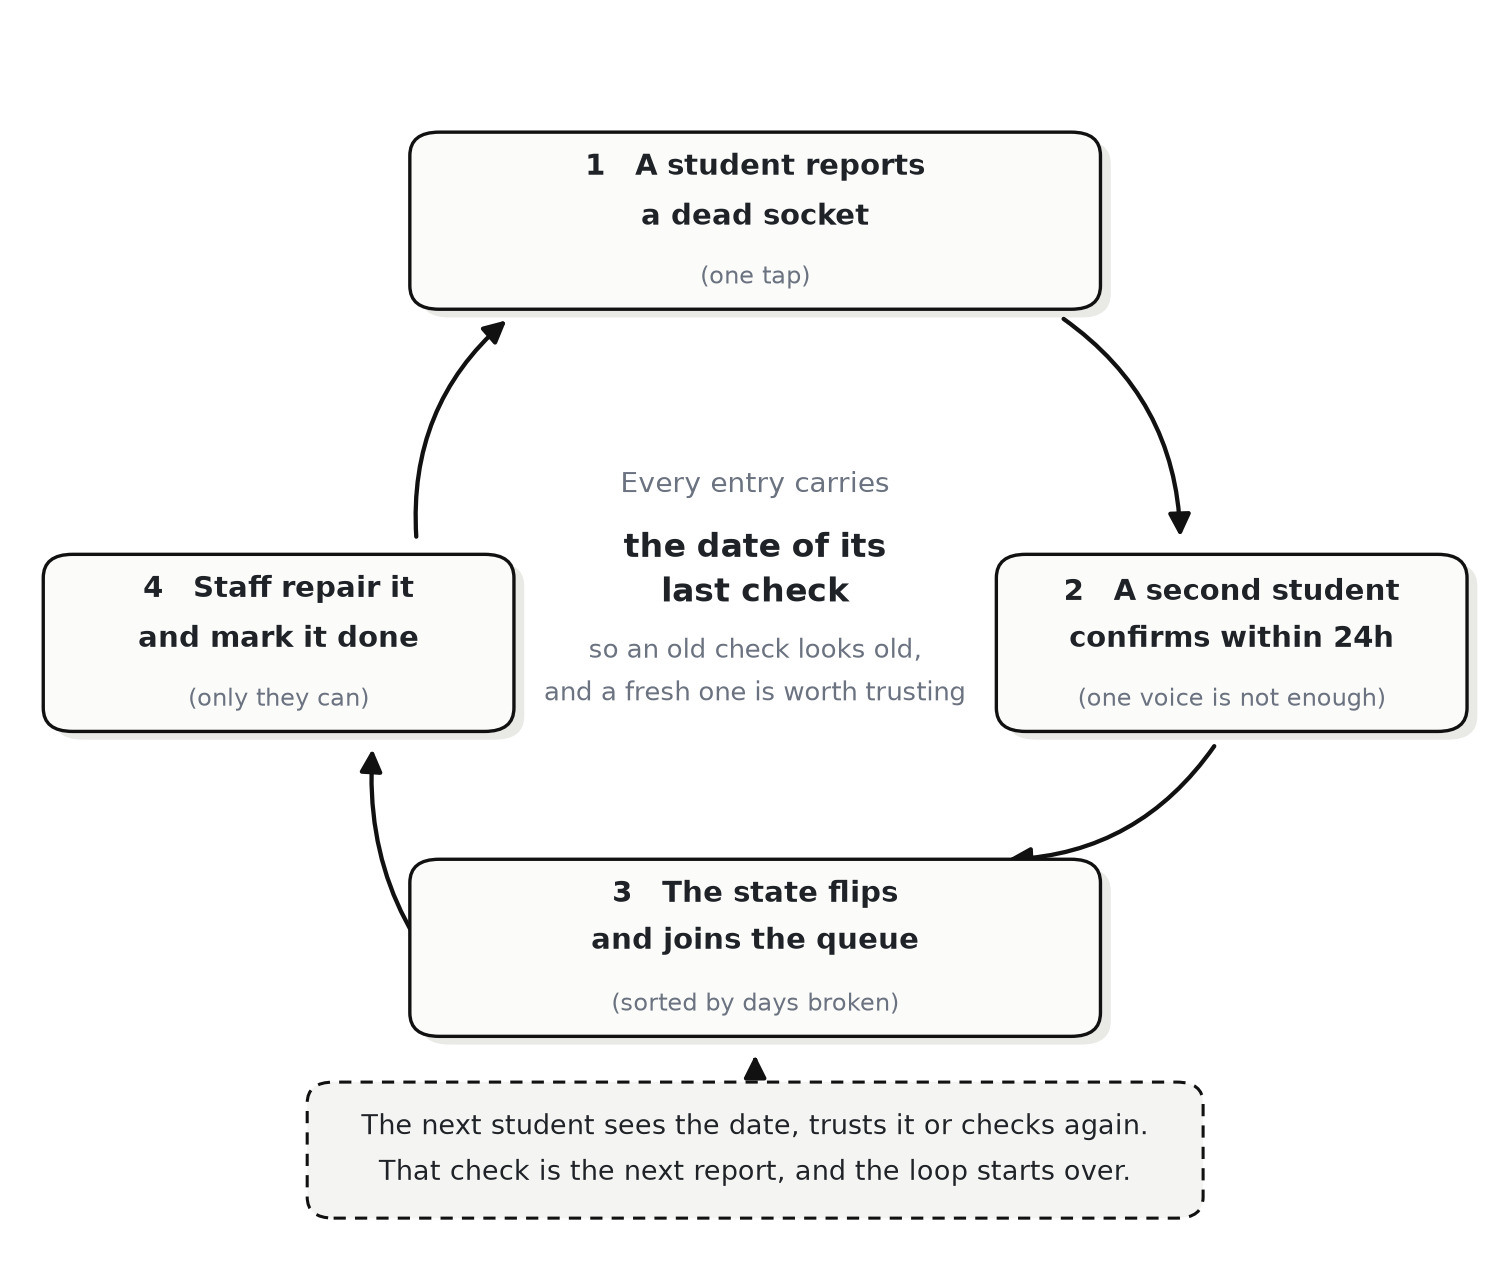
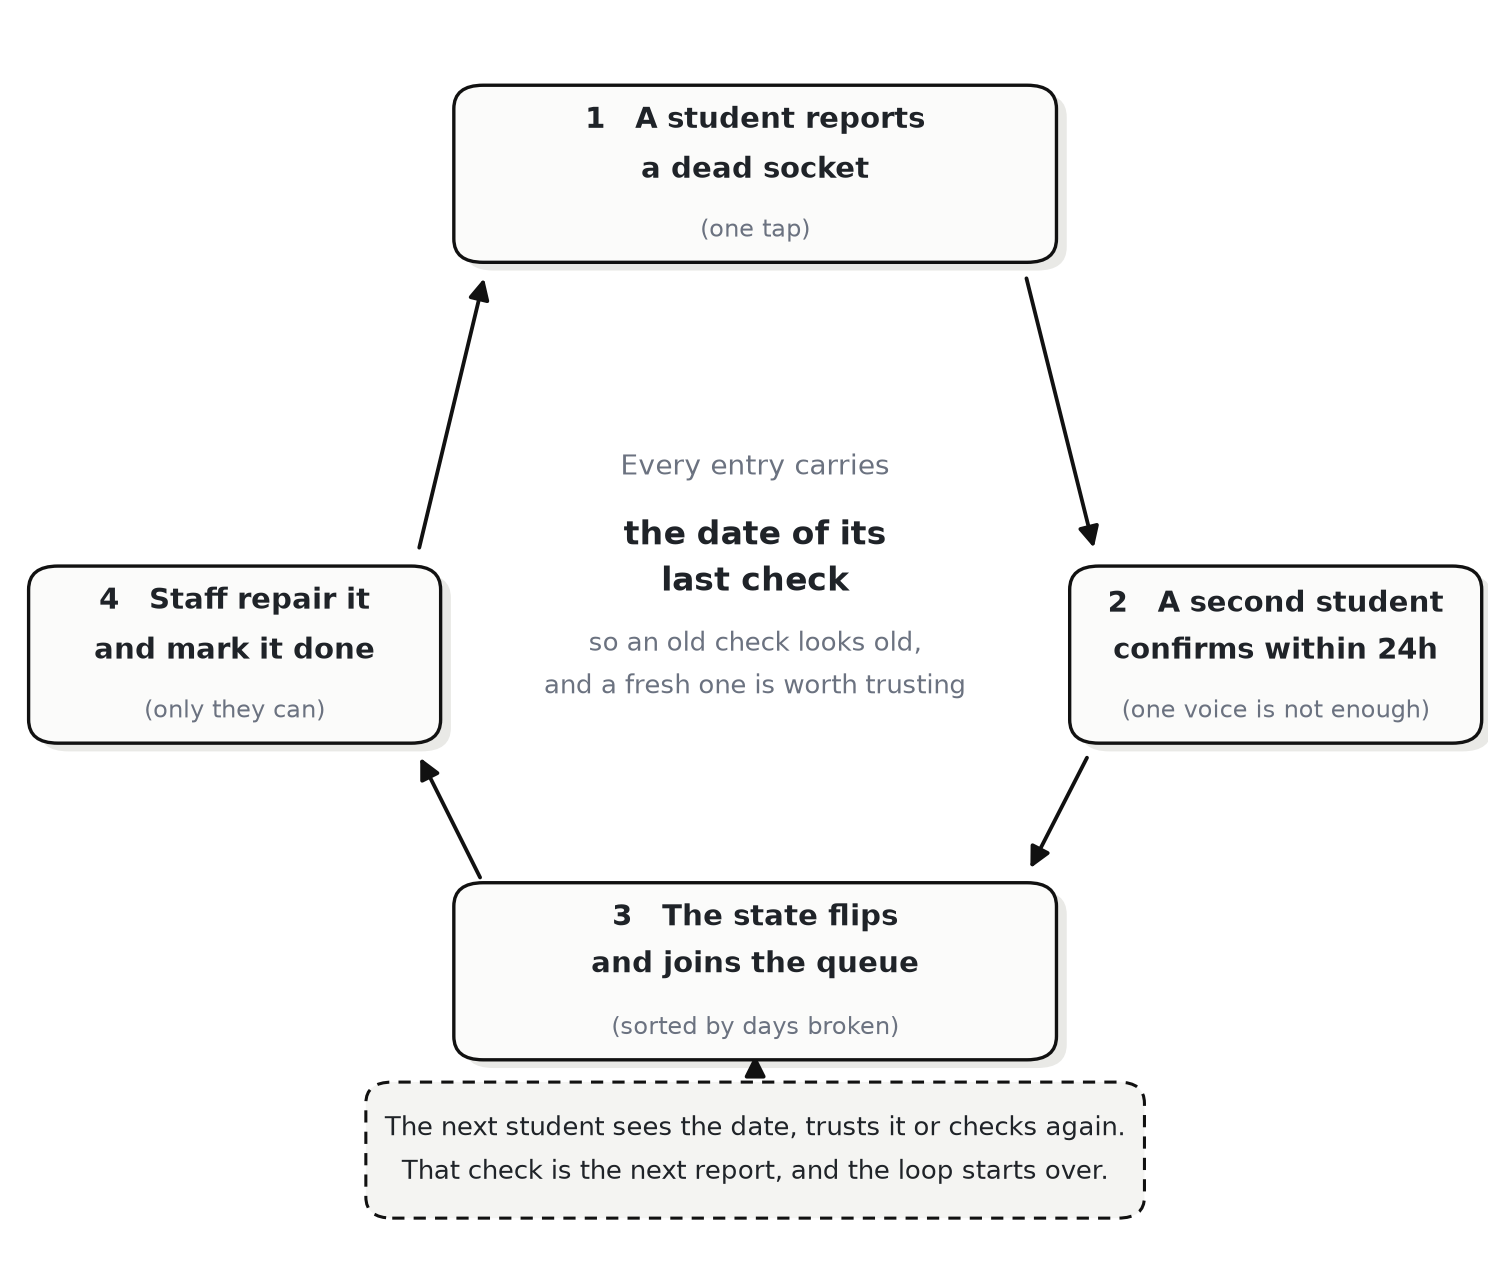
Add technical notes in three languages, redraw the loop diagram
- docs/technical.md and its Chinese editions: layers, data model, the four
  rules and where each one lives, the report sequence, endpoints, states
- the sequence and layer diagrams are mermaid, so GitHub renders them for
  every language instead of shipping three more PNGs
- loop diagram redrawn with straight symmetric arrows
- the structure check now covers the technical notes as well

Changed region(s): [[0.0, 0.0618, 0.747, 0.9572], [0.6536, 0.4014, 0.996, 0.6485], [0.747, 0.3088, 0.7781, 0.3705]]

diff --git a/docs/technical.md b/docs/technical.md
@@ -1,0 +1,109 @@
+# Technical notes
+
+How this repository is put together, and why the rules are the rules.
+
+## 1. What this build is
+
+Iteration 1 of Socket Finder: one socket, end to end. A student opens a room, reports a dead socket,
+and the state changes only when a second student agrees. Maintenance sees the result in a queue and
+closes it after a repair.
+
+## 2. Layers
+
+```mermaid
+flowchart TB
+    subgraph Client["One Vue 3 app"]
+        S["Student view"]
+        M["Maintenance view"]
+        R["role decided at sign in"]
+        R --> S
+        R --> M
+    end
+    S --> API["Spring Boot REST API"]
+    M --> API
+    API --> DB[("PostgreSQL")]
+    API --> JOB["staleness computed on read"]
+```
+
+One build, two roles. The front end hides what a role cannot use; the API refuses it anyway.
+
+## 3. Data model
+
+| Table | Fields that matter | Why it exists |
+|---|---|---|
+| `account` | email, password hash, role | Two roles only: `STUDENT`, `MAINTENANCE` |
+| `building` | code, name | One row per building |
+| `floor` | building, level | A floor belongs to a building |
+| `room` | code, floor, name | Room code is what students say out loud |
+| `seat` | room, label, x, y | `x` and `y` are for a future floor plan |
+| `socket` | seat, kind, state, last_checked_at | The unit of the whole design |
+| `report` | socket, account, state, created_at | Kept for the two-report rule and the daily limit |
+| `repair` | socket, staff, note, created_at | What was fixed, by whom, when |
+
+## 4. Rules
+
+| Rule | Where it lives | Behaviour |
+|---|---|---|
+| Two reports to flip | `SocketService.report` | Two **different** accounts, same state, within 24 hours |
+| One report per day | `SocketService.report` | Same account, same socket, second attempt returns HTTP 429 |
+| Old checks look old | `Rules.isStale` | More than 30 days since the last check is flagged, never silently trusted |
+| Only staff close a repair | `SocketController.repair` | Role checked on the write, not in the interface |
+
+The staleness rule is computed when a socket is read. There is no background job that could drift from
+what the database says.
+
+## 5. What happens when someone reports
+
+```mermaid
+sequenceDiagram
+    participant A as Student A
+    participant B as Student B
+    participant API
+    participant DB as PostgreSQL
+    participant S as Staff
+    A->>API: POST /api/sockets/12/report {BROKEN}
+    API->>DB: insert report
+    API-->>A: saved, one more report needed
+    B->>API: POST /api/sockets/12/report {BROKEN}
+    API->>DB: count distinct accounts in 24h
+    API->>DB: update socket to BROKEN
+    API-->>B: flipped
+    S->>API: GET /api/maintenance/queue
+    S->>API: POST /api/sockets/12/repair {note}
+    API->>DB: state REPAIRED, stamp time
+```
+
+## 6. Endpoints
+
+| Method | Path | Role | Notes |
+|---|---|---|---|
+| POST | `/api/auth/login` | any | returns a token, valid 8 hours |
+| GET | `/api/buildings` | any | buildings with floors |
+| GET | `/api/floors/{id}/rooms` | any | rooms with socket counts |
+| GET | `/api/rooms/{id}` | any | seats and sockets |
+| POST | `/api/sockets/{id}/report` | student | body `{"state":"BROKEN"}` |
+| POST | `/api/sockets/{id}/repair` | maintenance | body `{"note":"..."}` |
+| GET | `/api/maintenance/queue` | maintenance | broken sockets, oldest first |
+
+## 7. States
+
+| State | Set by | Meaning |
+|---|---|---|
+| `UNKNOWN` | seed data | nobody has checked this socket |
+| `WORKING` | two reports | two students confirm it charges |
+| `BROKEN` | two reports | two students confirm it does not |
+| `REPAIRED` | maintenance | staff fixed it, nobody has confirmed yet |
+
+## 8. Limits of this build
+
+- Tokens are kept in memory, so a restart signs everyone out.
+- Accounts are seeded, and nothing proves the account belongs to a HKU student.
+- Login has no rate limit.
+- The rooms and sockets are hand-typed sample data for one floor.
+- Photos, notifications, offline mode and floor plans are not built.
+
+## 9. Where this goes next
+
+The loop only stays alive while people keep reporting, so the next steps are the ones that make
+reporting cheaper and the data more visible: a floor plan per level, a phone layout, and a way for
+maintenance to see the same record they already keep.

diff --git a/docs/technical.zh-TW.md b/docs/technical.zh-TW.md
@@ -1,0 +1,104 @@
+# 技術說明
+
+這份倉庫是怎麼搭起來的，以及為什麼規則要這麼定。
+
+## 一、這一版是什麼
+
+Socket Finder 的迭代 1：一個插座，從查到報走完一圈。學生打開房間、報一個壞插座，狀態只有在第二個學生也報同樣的結果時才改變；維護人員在隊列裡看到它，修完之後結案。
+
+## 二、分層
+
+```mermaid
+flowchart TB
+    subgraph Client["一個 Vue 3 應用"]
+        S["學生視圖"]
+        M["維護視圖"]
+        R["登入時確定角色"]
+        R --> S
+        R --> M
+    end
+    S --> API["Spring Boot 介面"]
+    M --> API
+    API --> DB[("PostgreSQL")]
+    API --> JOB["讀的時候算新舊"]
+```
+
+一份 build，兩個角色。前端會把角色用不到的東西藏起來，介面仍然會拒絕。
+
+## 三、數據模型
+
+| 表 | 關鍵欄位 | 為什麼需要 |
+|---|---|---|
+| `account` | 電郵、密碼雜湊、角色 | 只有兩個角色：`STUDENT`、`MAINTENANCE` |
+| `building` | 代號、名稱 | 一棟樓一行 |
+| `floor` | 樓、樓層 | 樓層屬於樓 |
+| `room` | 房號、樓層、名稱 | 房號就是學生平時說出口的那個 |
+| `seat` | 房間、座位號、x、y | `x`、`y` 是留給以後的平面圖 |
+| `socket` | 座位、類型、狀態、上次核查時間 | 整個設計的單位 |
+| `report` | 插座、帳號、上報狀態、時間 | 為了「兩報才翻」和每天一次的限制 |
+| `repair` | 插座、維修人、備註、時間 | 誰在什麼時候修了什麼 |
+
+## 四、規則
+
+| 規則 | 寫在哪 | 行為 |
+|---|---|---|
+| 兩個人才翻轉 | `SocketService.report` | 24 小時內兩個**不同**帳號報同一狀態 |
+| 每帳號每天一次 | `SocketService.report` | 同帳號同插座再報一次回傳 HTTP 429 |
+| 舊的要看得出來舊 | `Rules.isStale` | 距上次核查超過 30 天就標記，絕不預設它是新的 |
+| 只有維護能結案 | `SocketController.repair` | 角色在寫入時檢查，不是靠介面藏按鈕 |
+
+「舊」是在讀取時算出來的，不需要背景任務，也就不會出現任務和資料庫不一致的情況。
+
+## 五、有人上報時發生什麼
+
+```mermaid
+sequenceDiagram
+    participant A as 學生 A
+    participant B as 學生 B
+    participant API
+    participant DB as PostgreSQL
+    participant S as 維護人員
+    A->>API: POST /api/sockets/12/report {BROKEN}
+    API->>DB: 寫入一條上報
+    API-->>A: 已儲存，還差一條
+    B->>API: POST /api/sockets/12/report {BROKEN}
+    API->>DB: 統計 24 小時內不同帳號數
+    API->>DB: 把插座改成 BROKEN
+    API-->>B: 狀態已翻轉
+    S->>API: GET /api/maintenance/queue
+    S->>API: POST /api/sockets/12/repair {備註}
+    API->>DB: 狀態 REPAIRED，寫入時間
+```
+
+## 六、介面
+
+| 方法 | 路徑 | 角色 | 說明 |
+|---|---|---|---|
+| POST | `/api/auth/login` | 所有人 | 回傳 token，8 小時有效 |
+| GET | `/api/buildings` | 所有人 | 樓與樓層 |
+| GET | `/api/floors/{id}/rooms` | 所有人 | 房間與插座數量 |
+| GET | `/api/rooms/{id}` | 所有人 | 座位與插座 |
+| POST | `/api/sockets/{id}/report` | 學生 | 請求體 `{"state":"BROKEN"}` |
+| POST | `/api/sockets/{id}/repair` | 維護人員 | 請求體 `{"note":"..."}` |
+| GET | `/api/maintenance/queue` | 維護人員 | 壞掉的插座，最久的排前 |
+
+## 七、狀態
+
+| 狀態 | 誰寫進去 | 含義 |
+|---|---|---|
+| `UNKNOWN` | 種子資料 | 還沒人查過 |
+| `WORKING` | 兩條上報 | 兩個學生確認能充電 |
+| `BROKEN` | 兩條上報 | 兩個學生確認不能用 |
+| `REPAIRED` | 維護人員 | 修好了，但還沒人確認 |
+
+## 八、這一版的限制
+
+- token 存在記憶體裡，重啟就要重新登入。
+- 帳號是預置的，沒有任何東西能證明這個帳號是港大學生。
+- 登入介面沒有頻率限制。
+- 房間和插座是一層樓的手工樣本資料。
+- 照片、通知、離線模式、平面圖都還沒做。
+
+## 九、接下來往哪走
+
+循環能轉，靠的是有人願意一直報。所以下一步都是讓上報更省事、讓資料更顯眼：每層一張平面圖、手機佈局，以及讓維護人員看見他們已經在自己維護的那本帳。

diff --git a/docs/technical.zh-CN.md b/docs/technical.zh-CN.md
@@ -1,0 +1,104 @@
+# 技术说明
+
+这份仓库是怎么搭起来的，以及为什么规则要这么定。
+
+## 一、这一版是什么
+
+Socket Finder 的迭代 1：一个插座，从查到报走完一圈。学生打开房间、报一个坏插座，状态只有在第二个学生也报同样的结果时才改变；维护人员在队列里看到它，修完之后结案。
+
+## 二、分层
+
+```mermaid
+flowchart TB
+    subgraph Client["一个 Vue 3 应用"]
+        S["学生视图"]
+        M["维护视图"]
+        R["登录时确定角色"]
+        R --> S
+        R --> M
+    end
+    S --> API["Spring Boot 接口"]
+    M --> API
+    API --> DB[("PostgreSQL")]
+    API --> JOB["读的时候算新旧"]
+```
+
+一份 build，两个角色。前端会把角色用不到的东西藏起来，接口仍然会拒绝。
+
+## 三、数据模型
+
+| 表 | 关键字段 | 为什么需要 |
+|---|---|---|
+| `account` | 邮箱、密码哈希、角色 | 只有两个角色：`STUDENT`、`MAINTENANCE` |
+| `building` | 代号、名称 | 一栋楼一行 |
+| `floor` | 楼、楼层 | 楼层属于楼 |
+| `room` | 房号、楼层、名称 | 房号就是学生平时说出口的那个 |
+| `seat` | 房间、座位号、x、y | `x`、`y` 是留给以后的平面图 |
+| `socket` | 座位、类型、状态、上次核查时间 | 整个设计的单位 |
+| `report` | 插座、账号、上报状态、时间 | 为了「两报才翻」和每天一次的限制 |
+| `repair` | 插座、维修人、备注、时间 | 谁在什么时候修了什么 |
+
+## 四、规则
+
+| 规则 | 写在哪 | 行为 |
+|---|---|---|
+| 两个人才翻转 | `SocketService.report` | 24 小时内两个**不同**账号报同一状态 |
+| 每账号每天一次 | `SocketService.report` | 同账号同插座再报一次返回 HTTP 429 |
+| 旧的要看得出来旧 | `Rules.isStale` | 距上次核查超过 30 天就标记，绝不默认它是新的 |
+| 只有维护能结案 | `SocketController.repair` | 角色在写入时校验，不是靠界面藏按钮 |
+
+「旧」是在读取时算出来的，不需要后台任务，也就不会出现任务和数据库不一致的情况。
+
+## 五、有人上报时发生什么
+
+```mermaid
+sequenceDiagram
+    participant A as 学生 A
+    participant B as 学生 B
+    participant API
+    participant DB as PostgreSQL
+    participant S as 维护人员
+    A->>API: POST /api/sockets/12/report {BROKEN}
+    API->>DB: 写入一条上报
+    API-->>A: 已保存，还差一条
+    B->>API: POST /api/sockets/12/report {BROKEN}
+    API->>DB: 统计 24 小时内不同账号数
+    API->>DB: 把插座改成 BROKEN
+    API-->>B: 状态已翻转
+    S->>API: GET /api/maintenance/queue
+    S->>API: POST /api/sockets/12/repair {备注}
+    API->>DB: 状态 REPAIRED，写入时间
+```
+
+## 六、接口
+
+| 方法 | 路径 | 角色 | 说明 |
+|---|---|---|---|
+| POST | `/api/auth/login` | 所有人 | 返回 token，8 小时有效 |
+| GET | `/api/buildings` | 所有人 | 楼与楼层 |
+| GET | `/api/floors/{id}/rooms` | 所有人 | 房间与插座数量 |
+| GET | `/api/rooms/{id}` | 所有人 | 座位与插座 |
+| POST | `/api/sockets/{id}/report` | 学生 | 请求体 `{"state":"BROKEN"}` |
+| POST | `/api/sockets/{id}/repair` | 维护人员 | 请求体 `{"note":"..."}` |
+| GET | `/api/maintenance/queue` | 维护人员 | 坏掉的插座，最久的排前 |
+
+## 七、状态
+
+| 状态 | 谁写进去 | 含义 |
+|---|---|---|
+| `UNKNOWN` | 种子数据 | 还没人查过 |
+| `WORKING` | 两条上报 | 两个学生确认能充电 |
+| `BROKEN` | 两条上报 | 两个学生确认不能用 |
+| `REPAIRED` | 维护人员 | 修好了，但还没人确认 |
+
+## 八、这一版的限制
+
+- token 存在内存里，重启就要重新登录。
+- 账号是预置的，没有任何东西能证明这个账号是港大学生。
+- 登录接口没有频率限制。
+- 房间和插座是一层楼的手工样数据。
+- 照片、通知、离线模式、平面图都还没做。
+
+## 九、接下来往哪走
+
+循环能转，靠的是有人愿意一直报。所以下一步都是让上报更省事、让数据更显眼：每层一张平面图、手机布局，以及让维护人员看见他们已经在自己维护的那本账。

diff --git a/README.md b/README.md
@@ -34,6 +34,10 @@ Two details keep it turning. Every entry carries a date, so an old check looks o
 |---|---|
 | ![Room](docs/screens/02-room.png) | ![Queue](docs/screens/03-queue.png) |
 
+## Technical notes
+
+The design behind this build, written out: [English](docs/technical.md) · [简体中文](docs/technical.zh-CN.md) · [繁體中文](docs/technical.zh-TW.md).
+
 ## Stack
 
 Built with:

diff --git a/README.zh-CN.md b/README.zh-CN.md
@@ -34,6 +34,10 @@
 |---|---|
 | ![房间](docs/screens/02-room.png) | ![队列](docs/screens/03-queue.png) |
 
+## 技术说明
+
+这份实现背后的设计，写在这里：[English](docs/technical.md) · [简体中文](docs/technical.zh-CN.md) · [繁體中文](docs/technical.zh-TW.md)。
+
 ## 技术栈
 
 技术栈：

diff --git a/README.zh-TW.md b/README.zh-TW.md
@@ -34,6 +34,10 @@
 |---|---|
 | ![房間](docs/screens/02-room.png) | ![隊列](docs/screens/03-queue.png) |
 
+## 技術說明
+
+這份實作背後的設計，寫在這裡：[English](docs/technical.md) · [简体中文](docs/technical.zh-CN.md) · [繁體中文](docs/technical.zh-TW.md)。
+
 ## 技術棧
 
 技術棧：
